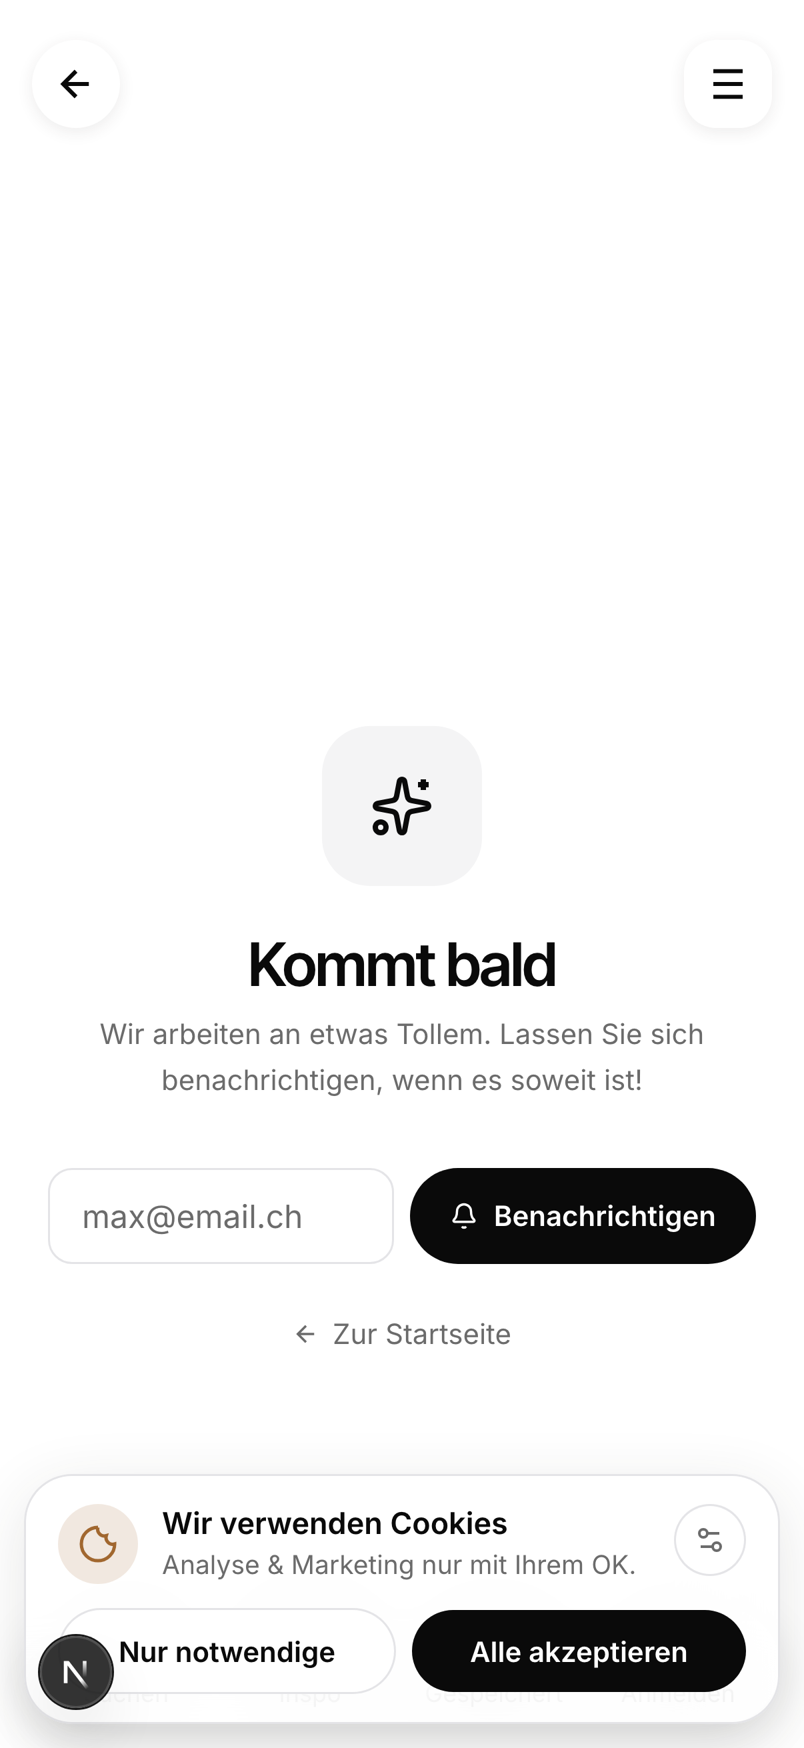
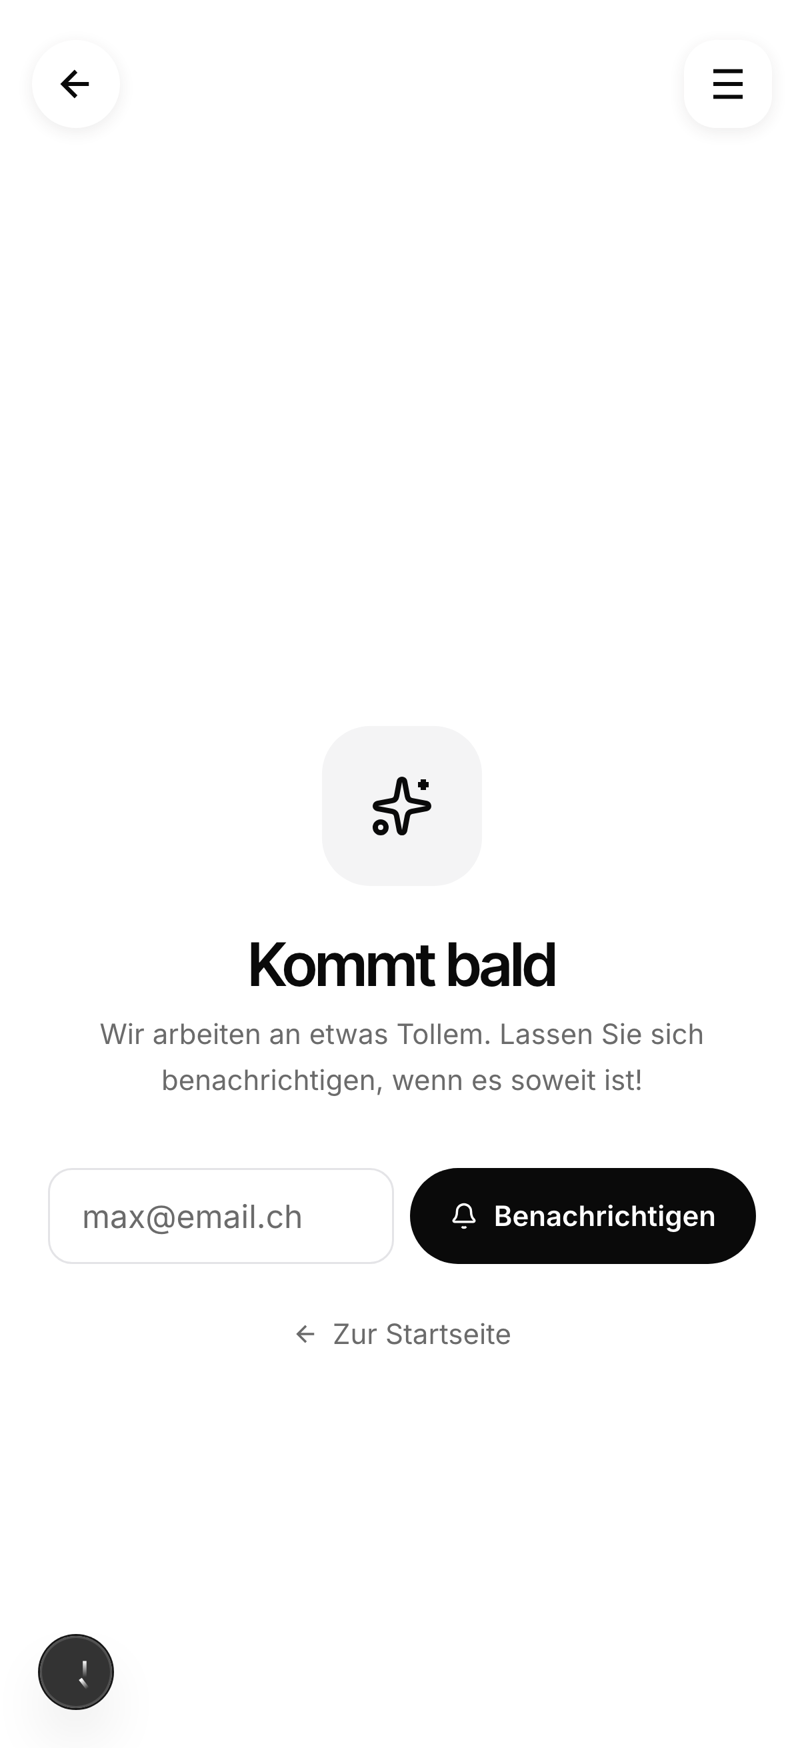
The toggle was under the cookie bar, so your taps were landing on that
Two things were covering it: the cookie banner and the bottom tab bar. The rule that was supposed to
hide them matched on class names, which is a guess, and neither of those two is shaped the way it
guessed. Now the page hides anything the browser actually reports as pinned to the screen, whatever
it is called, and the pills are 44 pixels tall instead of 36.

Tested the way you use it, with a phone-sized touch and no cheating: three taps in a row, each one
changed the picture, and the thing under your finger at the centre of the pill is the pill.
Same on the search one, five stops, three taps, all landed.

The two pictures are also cleaner now: the cookie banner was sitting inside the screenshots too.

Changed region(s): [[0.0622, 0.8341, 0.9639, 1.0]]

diff --git a/app/[locale]/dev/mock/versions/search/page.tsx b/app/[locale]/dev/mock/versions/search/page.tsx
@@ -24,7 +24,7 @@
 
 import * as React from "react";
 import { notFound } from "next/navigation";
-import { HIDE_APP_CHROME } from "../../_shell/MockShell";
+import { HIDE_APP_CHROME, useOwnTheScreen } from "../../_shell/MockShell";
 
 // Short labels on the pills: five long ones ran wider than a 402pt phone and the last two could not
 // be tapped, measured. How many branches carry each version sits on the line above instead.
@@ -39,9 +39,10 @@ const STOPS = [
 export default function SearchVersionsPage() {
   if (process.env.NODE_ENV === "production") notFound();
   const [pick, setPick] = React.useState(0);
+  useOwnTheScreen(); // the cookie banner and the tab bar were eating the taps
   const stop = STOPS[pick]!;
   return (
-    <div className="fixed inset-0 z-[1001] overflow-y-auto bg-white">
+    <div data-mock-root className="fixed inset-0 z-[1001] overflow-y-auto bg-white">
       <style>{HIDE_APP_CHROME}</style>
       {/* eslint-disable-next-line @next/next/no-img-element */}
       <img src={stop.src} alt={stop.label} className="block w-full" />
@@ -50,7 +51,7 @@ export default function SearchVersionsPage() {
           one carrying this attribute, and without it this toggle hid itself and no tap landed. */}
       <div
         data-mock-toggle
-        className="fixed bottom-[max(20px,env(safe-area-inset-bottom))] left-1/2 z-[1002] -translate-x-1/2"
+        className="fixed bottom-[max(28px,env(safe-area-inset-bottom))] left-1/2 z-[2147483647] -translate-x-1/2"
       >
         <p className="mb-2 text-center font-body text-[12px] text-s-ink-2">{stop.note}</p>
         <div className="flex gap-1 rounded-full border border-s-border bg-white p-1 shadow-elevation-3">
@@ -60,7 +61,7 @@ export default function SearchVersionsPage() {
               onClick={() => setPick(i)}
               aria-pressed={i === pick}
               className={
-                "h-9 rounded-full px-4 font-heading text-[14px] " +
+                "h-11 rounded-full px-5 font-heading text-[14px] " +
                 (i === pick ? "bg-s-bg-sunken font-semibold text-s-ink" : "font-medium text-s-ink-2")
               }
             >

diff --git a/app/[locale]/dev/mock/versions/coming-soon-icon/page.tsx b/app/[locale]/dev/mock/versions/coming-soon-icon/page.tsx
@@ -22,7 +22,7 @@
 
 import * as React from "react";
 import { notFound } from "next/navigation";
-import { HIDE_APP_CHROME } from "../../_shell/MockShell";
+import { HIDE_APP_CHROME, useOwnTheScreen } from "../../_shell/MockShell";
 
 const STOPS = [
   { label: "A", note: "sparkles, what ships today", src: "/_mockups/_assets/versions/coming-soon-icon/cs-A.png" },
@@ -32,9 +32,10 @@ const STOPS = [
 export default function ComingSoonIconVersionsPage() {
   if (process.env.NODE_ENV === "production") notFound();
   const [pick, setPick] = React.useState(0);
+  useOwnTheScreen(); // the cookie banner and the tab bar were eating the taps
   const stop = STOPS[pick]!;
   return (
-    <div className="fixed inset-0 z-[1001] overflow-y-auto bg-white">
+    <div data-mock-root className="fixed inset-0 z-[1001] overflow-y-auto bg-white">
       <style>{HIDE_APP_CHROME}</style>
       {/* eslint-disable-next-line @next/next/no-img-element */}
       <img src={stop.src} alt={stop.label} className="block w-full" />
@@ -42,7 +43,7 @@ export default function ComingSoonIconVersionsPage() {
       {/* data-mock-toggle is load-bearing: HIDE_APP_CHROME hides every fixed bottom bar except this one. */}
       <div
         data-mock-toggle
-        className="fixed bottom-[max(20px,env(safe-area-inset-bottom))] left-1/2 z-[1002] -translate-x-1/2"
+        className="fixed bottom-[max(28px,env(safe-area-inset-bottom))] left-1/2 z-[2147483647] -translate-x-1/2"
       >
         <p className="mb-2 text-center font-body text-[12px] text-s-ink-2">{stop.note}</p>
         <div className="flex gap-1 rounded-full border border-s-border bg-white p-1 shadow-elevation-3">
@@ -52,7 +53,7 @@ export default function ComingSoonIconVersionsPage() {
               onClick={() => setPick(i)}
               aria-pressed={i === pick}
               className={
-                "h-9 rounded-full px-5 font-heading text-[15px] " +
+                "h-11 rounded-full px-6 font-heading text-[15px] " +
                 (i === pick ? "bg-s-bg-sunken font-semibold text-s-ink" : "font-medium text-s-ink-2")
               }
             >

diff --git a/app/[locale]/dev/mock/_shell/MockShell.tsx b/app/[locale]/dev/mock/_shell/MockShell.tsx
@@ -35,6 +35,32 @@ export const HIDE_APP_CHROME = `
   main > section:has(input[type="email"]) { display: none !important; }
 `;
 
+/**
+ * Hide every fixed-position element on the page except the mockup's own toggle.
+ *
+ * Owner 2026-08-14: "cant even click a or b". The CSS rule above targets class names, and the
+ * cookie banner and the bottom tab bar do not match the shapes it guesses at, so both were sitting
+ * on top of the toggle and swallowing his taps. Class names are a guess; the computed position is
+ * the fact, so this walks the DOM and hides anything actually fixed that is not the toggle. It
+ * re-runs for a few seconds because those bars mount late.
+ */
+export function useOwnTheScreen() {
+  React.useEffect(() => {
+    let stop = false;
+    const sweep = () => {
+      if (stop) return;
+      for (const el of Array.from(document.body.querySelectorAll<HTMLElement>("*"))) {
+        if (el.closest("[data-mock-toggle]") || el.closest("[data-mock-root]")) continue;
+        const pos = getComputedStyle(el).position;
+        if (pos === "fixed" || pos === "sticky") el.style.display = "none";
+      }
+      window.setTimeout(sweep, 400);
+    };
+    sweep();
+    return () => { stop = true; };
+  }, []);
+}
+
 export function MockShell({
   proposed,
   options,

diff --git a/_plans/BRANCH_RECONCILIATION_2026-08-14.md b/_plans/BRANCH_RECONCILIATION_2026-08-14.md
@@ -212,7 +212,7 @@ rows + disclosure row, partner, reviews, one dashboard card.
       the class that was already dead, plus a hairline swapped off the one locked `s-border` token.
       Nothing to look at, nothing to pick.
 
-- [x] C7. MEASURED and reduced, 2026-08-14, same date test as the screens (verified:
+- [x] C7. Commit 2bb7c61f9 , MEASURED and reduced, 2026-08-14, same date test as the screens (verified:
       /tmp/claude/backstage-ages.json). Of the behind-the-scenes files with six or more versions,
       38 qualify and main is the newest on 24 of them, so those are history like the screens. The
       14 where a branch is genuinely newer, in plain words:
